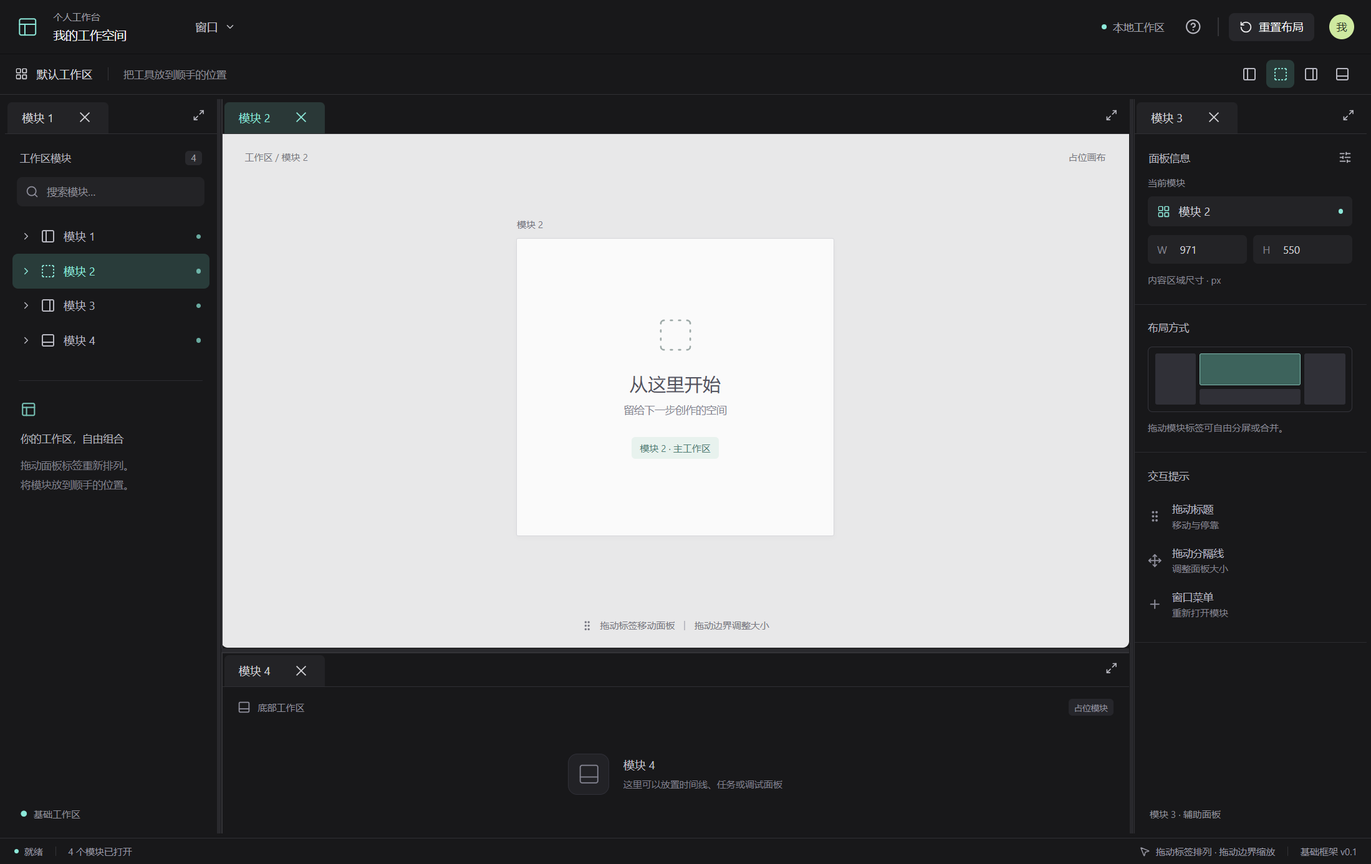
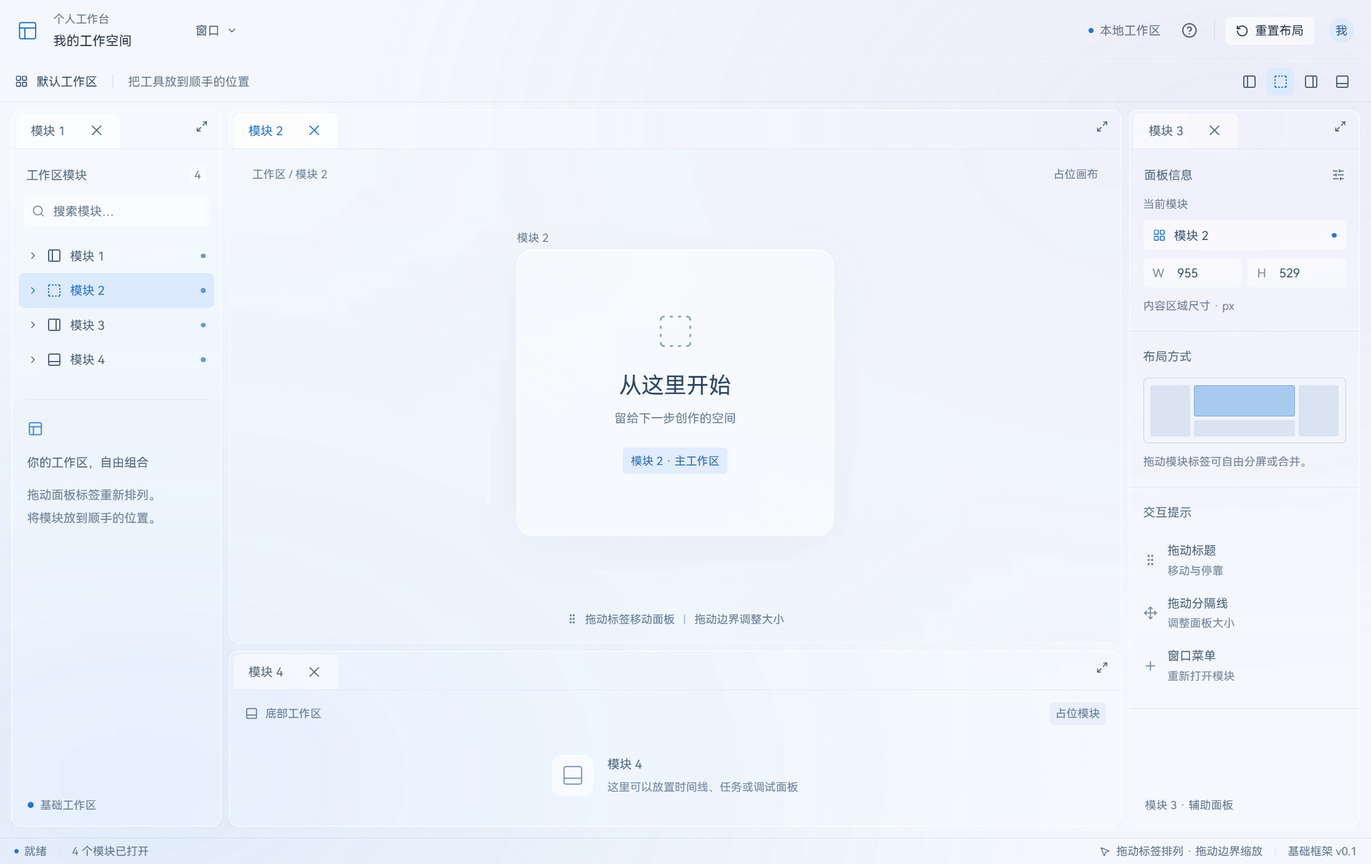
feat: 切换 Fluent 磨砂玻璃主题与原生 Acrylic 背景

diff --git a/src/renderer/src/styles.css b/src/renderer/src/styles.css
@@ -3,150 +3,168 @@
   line-height: 1.5;
   font-weight: 400;
   font-size: 14px;
-  color: #f4f4f5;
-  background: #18181a;
-  color-scheme: dark;
-  --bg: #18181a;
-  --surface: #232326;
-  --line: #343438;
-  --muted: #a1a1aa;
-  --accent: #8ce8d9;
+  color: #243247;
+  background: #eef2fa;
+  color-scheme: light;
+  --bg: #eef2fa;
+  --surface: #ffffff80;
+  --line: #c8d2e17a;
+  --muted: #69778b;
+  --accent: #2675c9;
 }
 * { box-sizing: border-box; }
 html, body, #root { margin: 0; width: 100%; height: 100%; overflow: hidden; }
 button, input { font: inherit; }
 button { display: inline-flex; align-items: center; justify-content: center; gap: 7px; color: inherit; border: 0; background: transparent; cursor: pointer; border-radius: 6px; }
-button:hover { background: #2c2c30; }
+button:hover { background: #ffffff99; }
 button:focus-visible, input:focus-visible { outline: 2px solid var(--accent); outline-offset: -2px; }
 button, kbd, .app-header, .workspace-toolbar, .statusbar { user-select: none; }
 svg { flex-shrink: 0; }
-.workbench { display: flex; flex-direction: column; height: 100%; }
-.app-header { height: 58px; flex-shrink: 0; display: flex; align-items: center; gap: 16px; padding: 0 18px; border-bottom: 1px solid #101012; }
+.workbench {
+  display: flex; flex-direction: column; height: 100%; isolation: isolate;
+  background: radial-gradient(ellipse at 10% 90%, #a9c8f442, transparent 55%), radial-gradient(ellipse at 90% 15%, #d3c8ec40, transparent 55%), #edf3fa9c;
+}
+:root[data-backdrop="acrylic"] { background: transparent; }
+:root:not([data-backdrop="acrylic"]) { background: #e4ebf7; }
+.app-header { height: 66px; flex-shrink: 0; display: flex; align-items: center; gap: 16px; padding: 0 18px; border-bottom: 1px solid #ffffff66; }
 .brand { color: var(--accent); display: flex; align-items: center; }
 .project-name { display: flex; flex-direction: column; gap: 4px; min-width: 126px; }
 .project-name > span { color: var(--muted); font-size: 12px; }
 .project-name strong { font-size: 14px; font-weight: 500; }
 .header-spacer { flex: 1; }
-.text-button { padding: 8px 10px; color: #c5c5cb; font-size: 13px; }
-.icon-button { width: 30px; height: 30px; padding: 0; color: #b9b9c2; }
-.icon-button.is-active, .text-button.is-active { background: #293c3a; color: var(--accent); }
+.text-button { padding: 8px 10px; color: #4d5e74; font-size: 13px; }
+.icon-button { width: 30px; height: 30px; padding: 0; color: #51627b; }
+.icon-button.is-active, .text-button.is-active { background: #dceafd; color: var(--accent); }
 .workspace-label { display: flex; align-items: center; gap: 7px; color: var(--muted); font-size: 13px; }
 .accent-dot { width: 5px; height: 5px; display: inline-block; flex-shrink: 0; background: var(--accent); border-radius: 50%; }
 .header-divider { width: 1px; height: 20px; background: var(--line); margin: 0 -5px; }
-.reset-button { height: 30px; padding: 0 11px; background: #27272b; font-size: 13px; }
-.avatar { display: grid; place-items: center; width: 27px; height: 27px; background: #cee9a0; color: #273123; border-radius: 50%; font-size: 13px; }
-.workspace-toolbar { display: flex; align-items: center; flex-shrink: 0; height: 43px; padding: 0 16px; gap: 16px; border-bottom: 1px solid #303034; }
-.workspace-title { display: flex; gap: 9px; align-items: center; font-size: 13px; color: #d9d9df; }
+.reset-button { height: 30px; padding: 0 11px; background: #ffffff99; font-size: 13px; }
+.avatar { display: grid; place-items: center; width: 27px; height: 27px; background: #dceafa; color: #355d93; border-radius: 50%; font-size: 13px; }
+.workspace-toolbar { display: flex; align-items: center; flex-shrink: 0; height: 43px; padding: 0 16px; gap: 16px; border-bottom: 1px solid #c4cfdf70; }
+.workspace-title { display: flex; gap: 9px; align-items: center; font-size: 13px; color: #344c68; }
 .toolbar-divider { height: 14px; width: 1px; background: var(--line); }
-.toolbar-hint { font-size: 13px; color: #8d8d97; }
+.toolbar-hint { font-size: 13px; color: #6b7c92; }
 .module-shortcuts { display: flex; gap: 3px; }
-.docking-area { flex: 1; min-height: 0; padding: 5px; }
-.statusbar { display: flex; gap: 13px; align-items: center; height: 28px; flex-shrink: 0; padding: 0 15px; color: #9898a3; font-size: 12px; border-top: 1px solid #303034; }
+.docking-area { flex: 1; min-height: 0; padding: 8px 12px 12px; }
+.statusbar { display: flex; gap: 13px; align-items: center; height: 28px; flex-shrink: 0; padding: 0 15px; color: #62758e; font-size: 12px; border-top: 1px solid #c4cfdf70; }
 .statusbar > span { display: flex; gap: 6px; align-items: center; }
 .status-separator { height: 10px; width: 1px; background: var(--line); }
 .menu-anchor { position: relative; }
-.dropdown-menu { position: absolute; top: 38px; left: 0; width: 210px; padding: 7px; background: #232326; border: 1px solid #424248; border-radius: 9px; z-index: 10000; box-shadow: 0 10px 28px #0006; }
+.dropdown-menu { position: absolute; top: 38px; left: 0; width: 210px; padding: 7px; background: #f7faffd9; backdrop-filter: blur(28px); border: 1px solid #ffffffcc; border-radius: 9px; z-index: 10000; box-shadow: 0 10px 28px #273b611f; }
 .dropdown-menu button { width: 100%; justify-content: space-between; padding: 9px 10px; font-size: 13px; }
 .dropdown-menu button svg { color: var(--accent); }
 .menu-title { color: var(--muted); font-size: 13px; padding: 5px 10px 8px; }
 .menu-divider { height: 1px; background: var(--line); margin: 6px 3px; }
 .dockview-theme-workbench {
   height: 100%;
-  --dv-group-view-background-color: #18181a;
-  --dv-tabs-and-actions-container-background-color: #18181a;
-  --dv-tabs-and-actions-container-height: 37px;
-  --dv-activegroup-visiblepanel-tab-background-color: #2a3837;
-  --dv-activegroup-hiddenpanel-tab-background-color: #18181a;
-  --dv-inactivegroup-visiblepanel-tab-background-color: #232326;
-  --dv-inactivegroup-hiddenpanel-tab-background-color: #18181a;
-  --dv-activegroup-visiblepanel-tab-color: #8ce8d9;
-  --dv-activegroup-hiddenpanel-tab-color: #a1a1aa;
-  --dv-inactivegroup-visiblepanel-tab-color: #d4d4d8;
-  --dv-inactivegroup-hiddenpanel-tab-color: #a1a1aa;
+  --dv-group-view-background-color: transparent;
+  --dv-tabs-and-actions-container-background-color: transparent;
+  --dv-tabs-and-actions-container-height: 42px;
+  --dv-activegroup-visiblepanel-tab-background-color: #ffffffd9;
+  --dv-activegroup-hiddenpanel-tab-background-color: transparent;
+  --dv-inactivegroup-visiblepanel-tab-background-color: #ffffff80;
+  --dv-inactivegroup-hiddenpanel-tab-background-color: transparent;
+  --dv-activegroup-visiblepanel-tab-color: #2675c9;
+  --dv-activegroup-hiddenpanel-tab-color: #69778b;
+  --dv-inactivegroup-visiblepanel-tab-color: #56677c;
+  --dv-inactivegroup-hiddenpanel-tab-color: #69778b;
   --dv-tab-divider-color: transparent;
-  --dv-separator-border: #343438;
-  --dv-active-sash-color: #8ce8d9;
-  --dv-sash-color: #29292d;
-  --dv-drag-over-background-color: #8ce8d922;
-  --dv-drag-over-border: 1px solid #8ce8d9;
+  --dv-separator-border: transparent;
+  --dv-active-sash-color: #2675c9;
+  --dv-sash-color: transparent;
+  --dv-drag-over-background-color: #2675c91c;
+  --dv-drag-over-border: 1px solid #2675c9;
   --dv-tab-font-size: 13px;
   --dv-tabs-and-actions-container-font-size: 13px;
-  --dv-icon-hover-background-color: #ffffff14;
+  --dv-icon-hover-background-color: #ffffff99;
 }
-.dockview-theme-workbench .dv-groupview { border-radius: 7px; overflow: hidden; }
-.dockview-theme-workbench .dv-tabs-and-actions-container { border-bottom: 1px solid #303034; padding: 3px 3px 0; }
-.dockview-theme-workbench .dv-tab { border-radius: 5px 5px 0 0; min-width: 95px; }
+.dockview-theme-workbench .dv-groupview {
+  border-radius: 10px; overflow: hidden;
+  background: #ffffff66;
+  backdrop-filter: blur(24px) saturate(125%);
+  box-shadow: inset 0 0 0 1px #ffffffb3, 0 3px 10px #3857830c;
+}
+.dockview-theme-workbench .dv-tabs-and-actions-container { border-bottom: 1px solid #d0dbea66; padding: 4px 5px 0; }
+.dockview-theme-workbench .dv-tab { border-radius: 7px 7px 0 0; min-width: 105px; }
 .dockview-theme-workbench .dv-default-tab { padding: 0 9px; gap: 15px; }
 .dockview-theme-workbench .dv-default-tab .dv-default-tab-content { padding-right: 5px; }
 .dockview-theme-workbench .header-action { width: 26px; height: 28px; margin-right: 3px; }
 .module-navigation, .inspector { height: 100%; overflow: auto; position: relative; display: flex; flex-direction: column; }
-.section-heading { display: flex; align-items: center; justify-content: space-between; padding: 18px 16px 13px; font-size: 13px; color: #b5b5be; }
-.count { font-size: 12px; color: var(--muted); background: #29292d; padding: 1px 6px; border-radius: 4px; }
-.search-field { display: flex; margin: 0 13px 14px; height: 31px; padding: 0 9px; gap: 7px; align-items: center; background: var(--surface); border-radius: 6px; color: #8f8f9c; }
-.search-field input { width: 100%; min-width: 0; border: 0; background: none; color: #dddde4; font-size: 13px; outline-offset: 3px; }
-.search-field input::placeholder { color: #91919b; }
+.section-heading { display: flex; align-items: center; justify-content: space-between; padding: 18px 16px 13px; font-size: 13px; color: #596c85; }
+.count { font-size: 12px; color: var(--muted); background: #ffffff66; padding: 1px 6px; border-radius: 4px; }
+.search-field { display: flex; margin: 0 13px 14px; height: 31px; padding: 0 9px; gap: 7px; align-items: center; background: var(--surface); border-radius: 6px; color: #7d8da3; }
+.search-field input { width: 100%; min-width: 0; border: 0; background: none; color: #263c57; font-size: 13px; outline-offset: 3px; }
+.search-field input::placeholder { color: #6a7b91; }
 .module-list { padding: 0 8px; }
-.module-row { justify-content: flex-start; width: 100%; height: 37px; gap: 9px; padding: 0 9px; color: #b9b9c2; font-size: 13px; }
-.module-row.selected { background: #293c3a; color: var(--accent); }
+.module-row { justify-content: flex-start; width: 100%; height: 37px; gap: 9px; padding: 0 9px; color: #51627b; font-size: 13px; }
+.module-row.selected { background: #dceafd; color: var(--accent); }
 .module-row > span:first-of-type { flex: 1; text-align: left; }
-.visibility-dot { width: 5px; height: 5px; border: 1px solid #686872; border-radius: 50%; }
-.visibility-dot.on { background: #8ce8d9; border-color: #8ce8d9; opacity: .7; }
-.sidebar-note { border-top: 1px solid #2b2b30; margin: 24px 15px 16px; padding: 22px 2px; color: #80808c; }
-.sidebar-note > svg { color: #8ce8d9; opacity: .8; }
-.sidebar-note strong { display: block; font-size: 13px; font-weight: 400; color: #b6b6bf; margin-top: 12px; }
+.visibility-dot { width: 5px; height: 5px; border: 1px solid #94a3b8; border-radius: 50%; }
+.visibility-dot.on { background: #2675c9; border-color: #2675c9; opacity: .7; }
+.sidebar-note { border-top: 1px solid #c3cfdf66; margin: 24px 15px 16px; padding: 22px 2px; color: #73839a; }
+.sidebar-note > svg { color: #2675c9; opacity: .8; }
+.sidebar-note strong { display: block; font-size: 13px; font-weight: 400; color: #53657e; margin-top: 12px; }
 .sidebar-note p { font-size: 13px; line-height: 1.9; }
-.panel-footnote { display: flex; gap: 7px; align-items: center; margin-top: auto; padding: 14px 17px; color: #91919b; font-size: 12px; }
+.panel-footnote { display: flex; gap: 7px; align-items: center; margin-top: auto; padding: 14px 17px; color: #6a7b91; font-size: 12px; }
 .panel-footnote svg { color: var(--accent); }
 .search-empty { font-size: 13px; text-align: center; color: var(--muted); }
-.canvas-panel { width: 100%; height: 100%; background: #e8e8e9; color: #60606a; display: flex; flex-direction: column; align-items: center; position: relative; overflow: auto; padding: 0 25px; }
-.canvas-topline { width: 100%; display: flex; justify-content: space-between; font-size: 12px; padding: 18px 0 12px; color: #777780; flex-shrink: 0; }
-.canvas-sheet { position: relative; margin: auto; width: min(340px, 84%); min-height: 200px; height: 58%; max-height: 350px; display: flex; flex-direction: column; justify-content: center; align-items: center; background: #fafafa; border: 1px solid #d7d7db; border-radius: 2px; box-shadow: 0 2px 5px #00000006; }
-.sheet-caption { position: absolute; left: 0; top: -22px; font-size: 12px; color: #70707a; }
-.canvas-sheet > svg { color: #9eaaa8; }
-.canvas-sheet h1 { font-size: 19px; font-weight: 500; letter-spacing: 0; color: #53535e; margin: 18px 0 0; }
-.canvas-sheet p { margin: 8px 0 22px; font-size: 13px; color: #83838e; }
-.canvas-badge { font-size: 12px; color: #4e7a72; padding: 5px 9px; border-radius: 4px; background: #e8f2ee; }
-.canvas-tip { font-size: 12px; margin: 20px 0 17px; display: flex; gap: 7px; align-items: center; color: #757580; flex-shrink: 0; }
-.canvas-tip > span { height: 10px; width: 1px; background: #bdbdc4; margin: 0 3px; }
-.inspector-section { padding: 0 15px 17px; border-bottom: 1px solid #2b2b30; }
-.inspector-section > label { display: block; font-size: 12px; color: #8e8e9b; margin-bottom: 8px; }
-.readonly-field { height: 32px; display: flex; align-items: center; gap: 9px; padding: 0 10px; background: #232326; border-radius: 5px; font-size: 13px; color: #cdcdd6; }
-.readonly-field > svg { color: #8ce8d9; }
+.canvas-panel { width: 100%; height: 100%; background: #eef4fa55; color: #53677e; display: flex; flex-direction: column; align-items: center; position: relative; overflow: auto; padding: 0 25px; }
+.canvas-topline { width: 100%; display: flex; justify-content: space-between; font-size: 12px; padding: 18px 0 12px; color: #6b7f99; flex-shrink: 0; }
+.canvas-sheet { position: relative; margin: auto; width: min(340px, 84%); min-height: 200px; height: 58%; max-height: 350px; display: flex; flex-direction: column; justify-content: center; align-items: center; background: #ffffff60; border: 1px solid #ffffffaa; border-radius: 18px; box-shadow: 0 10px 40px #6484b512, inset 0 1px 0 #ffffff; }
+.sheet-caption { position: absolute; left: 0; top: -22px; font-size: 12px; color: #6a7d95; }
+.canvas-sheet > svg { color: #7c9cc4; }
+.canvas-sheet h1 { font-size: 24px; font-weight: 500; letter-spacing: 0; color: #2d4665; margin: 18px 0 0; }
+.canvas-sheet p { margin: 8px 0 22px; font-size: 13px; color: #6f8199; }
+.canvas-badge { font-size: 12px; color: #306caf; padding: 5px 9px; border-radius: 4px; background: #e1ecfc; }
+.canvas-tip { font-size: 12px; margin: 20px 0 17px; display: flex; gap: 7px; align-items: center; color: #647b96; flex-shrink: 0; }
+.canvas-tip > span { height: 10px; width: 1px; background: #aebed3; margin: 0 3px; }
+.inspector-section { padding: 0 15px 17px; border-bottom: 1px solid #c3cfdf66; }
+.inspector-section > label { display: block; font-size: 12px; color: #6e7e94; margin-bottom: 8px; }
+.readonly-field { height: 32px; display: flex; align-items: center; gap: 9px; padding: 0 10px; background: #ffffff80; border-radius: 5px; font-size: 13px; color: #3c526e; }
+.readonly-field > svg { color: #2675c9; }
 .readonly-field > span:first-of-type { flex: 1; }
 .dimension-fields { display: flex; gap: 7px; margin-top: 9px; }
-.dimension-fields > div { flex: 1; display: flex; gap: 14px; align-items: center; height: 31px; border-radius: 5px; background: #232326; padding: 0 10px; font-size: 13px; }
-.dimension-fields span { color: #83838f; }
-.dimension-fields output { color: #d4d4da; font-variant-numeric: tabular-nums; }
-.field-hint { color: #888894; font-size: 12px; line-height: 1.7; margin: 9px 0 0; }
+.dimension-fields > div { flex: 1; display: flex; gap: 14px; align-items: center; height: 31px; border-radius: 5px; background: #ffffff80; padding: 0 10px; font-size: 13px; }
+.dimension-fields span { color: #7b8ba0; }
+.dimension-fields output { color: #355171; font-variant-numeric: tabular-nums; }
+.field-hint { color: #74839a; font-size: 12px; line-height: 1.7; margin: 9px 0 0; }
 .inspector-section .section-heading { padding: 17px 0 13px; }
-.layout-preview { height: 70px; display: grid; grid-template-columns: 1fr 2.5fr 1fr; grid-template-rows: 2fr 1fr; gap: 4px; padding: 7px; border: 1px solid #35353c; border-radius: 5px; }
-.layout-preview > div { background: #303037; border-radius: 2px; }
+.layout-preview { height: 70px; display: grid; grid-template-columns: 1fr 2.5fr 1fr; grid-template-rows: 2fr 1fr; gap: 4px; padding: 7px; border: 1px solid #c4d3e6; border-radius: 5px; }
+.layout-preview > div { background: #d9e3f1; border-radius: 2px; }
 .layout-preview > div:first-child { grid-row: span 2; }
-.layout-preview > div:nth-child(2) { background: #3d635c; border: 1px solid #80b9af; }
+.layout-preview > div:nth-child(2) { background: #a8caef; border: 1px solid #76a9e0; }
 .layout-preview > div:nth-child(3) { grid-row: span 2; }
-.instruction { display: flex; align-items: center; gap: 11px; color: #8f8f9c; padding: 8px 0; }
-.instruction > span { display: flex; flex-direction: column; font-size: 13px; color: #b8b8c1; gap: 3px; }
-.instruction > span > span { font-size: 12px; color: #858591; }
+.instruction { display: flex; align-items: center; gap: 11px; color: #7d8da3; padding: 8px 0; }
+.instruction > span { display: flex; flex-direction: column; font-size: 13px; color: #4f657f; gap: 3px; }
+.instruction > span > span { font-size: 12px; color: #798aa0; }
 .bottom-panel { height: 100%; overflow: auto; display: flex; flex-direction: column; }
-.bottom-panel-top { display: flex; align-items: center; justify-content: space-between; padding: 13px 17px; font-size: 12px; color: #90909e; }
+.bottom-panel-top { display: flex; align-items: center; justify-content: space-between; padding: 13px 17px; font-size: 12px; color: #637c99; }
 .bottom-panel-top > span:first-child { display: flex; align-items: center; gap: 8px; }
-.subtle-tag { background: #26262b; border-radius: 4px; padding: 3px 6px; font-size: 12px; }
+.subtle-tag { background: #e8effa; border-radius: 4px; padding: 3px 6px; font-size: 12px; }
 .bottom-empty { display: flex; align-items: center; justify-content: center; gap: 15px; flex: 1; padding: 10px 15px 24px; }
-.empty-symbol { display: grid; place-items: center; width: 44px; height: 44px; background: #222226; color: #838390; border: 1px solid #303038; border-radius: 10px; }
-.bottom-empty h2 { font-size: 13px; font-weight: 400; margin: 0 0 6px; color: #c2c2cb; }
-.bottom-empty p { margin: 0; font-size: 12px; color: #80808e; }
-.empty-workspace { height: 100%; width: 100%; display: flex; flex-direction: column; align-items: center; justify-content: center; color: #a1a1aa; }
+.empty-symbol { display: grid; place-items: center; width: 44px; height: 44px; background: #ffffff99; color: #7591b2; border: 1px solid #ffffffbb; border-radius: 10px; }
+.bottom-empty h2 { font-size: 13px; font-weight: 400; margin: 0 0 6px; color: #4f6683; }
+.bottom-empty p { margin: 0; font-size: 12px; color: #7789a2; }
+.empty-workspace { height: 100%; width: 100%; display: flex; flex-direction: column; align-items: center; justify-content: center; color: #69778b; }
 .empty-workspace h2 { font-size: 18px; font-weight: 400; }
 .empty-workspace p { font-size: 13px; }
-.primary-button { padding: 9px 15px; background: var(--accent); color: #163b33; margin-top: 12px; }
-.primary-button:hover { background: #a4f2e5; }
-.help-dialog { width: min(440px, 90vw); padding: 24px; background: #232326; color: #eeeef0; border: 1px solid #424248; border-radius: 12px; box-shadow: 0 18px 70px #0007; }
-.help-dialog::backdrop { background: #0007; }
+.primary-button { padding: 9px 15px; background: var(--accent); color: #ffffff; margin-top: 12px; }
+.primary-button:hover { background: #1e65b5; }
+.help-dialog { width: min(440px, 90vw); padding: 24px; background: #f7faffeb; backdrop-filter: blur(28px); color: #2d425d; border: 1px solid #ffffffcc; border-radius: 12px; box-shadow: 0 18px 70px #304c7829; }
+.help-dialog::backdrop { background: #304c7829; }
 .dialog-heading { display: flex; align-items: center; justify-content: space-between; }
 .dialog-heading h2 { font-size: 16px; font-weight: 500; margin: 0; }
 .help-dialog > p { color: var(--muted); font-size: 13px; margin: 17px 0 22px; }
 .help-dialog dl { display: grid; grid-template-columns: 76px 1fr; font-size: 13px; gap: 15px 10px; margin: 0; }
 .help-dialog dt { color: var(--accent); }
-.help-dialog dd { margin: 0; color: #bcbcc5; }
+.help-dialog dd { margin: 0; color: #647992; }
 @media (max-width: 1000px) { .toolbar-hint, .workspace-label, .status-hint { display: none !important; } .app-header { gap: 10px; } }
 @media (prefers-reduced-motion: reduce) { *, *::before, *::after { transition: none !important; animation: none !important; } }
+
+@media (prefers-reduced-transparency: reduce) {
+  .workbench { background: #edf2f9; }
+  .dockview-theme-workbench .dv-groupview, .dropdown-menu, .help-dialog { background: #f8fafe; backdrop-filter: none; }
+}
+@media (forced-colors: active) {
+  .workbench, .dockview-theme-workbench .dv-groupview, .dropdown-menu, .help-dialog { background: Canvas; color: CanvasText; backdrop-filter: none; border: 1px solid CanvasText; }
+}

diff --git a/src/main/index.ts b/src/main/index.ts
@@ -1,5 +1,8 @@
-import { app, BrowserWindow, Menu } from 'electron'
+import { app, BrowserWindow, Menu, nativeTheme } from 'electron'
 import { fileURLToPath } from 'node:url'
+import { release } from 'node:os'
+
+const supportsAcrylic = process.platform === 'win32' && Number(release().split('.')[2]) >= 22621
 
 function createWindow() {
   const window = new BrowserWindow({
@@ -8,7 +11,8 @@ function createWindow() {
     minWidth: 900,
     minHeight: 640,
     title: '个人工作台',
-    backgroundColor: '#18181a',
+    backgroundColor: supportsAcrylic ? '#00000000' : '#eef2fa',
+    ...(supportsAcrylic ? { backgroundMaterial: 'acrylic' as const } : {}),
     autoHideMenuBar: true,
     show: false,
     webPreferences: {
@@ -22,13 +26,18 @@ function createWindow() {
   window.webContents.on('will-navigate', (event) => event.preventDefault())
 
   if (!app.isPackaged && process.env.ELECTRON_RENDERER_URL) {
-    void window.loadURL(process.env.ELECTRON_RENDERER_URL)
+    const url = new URL(process.env.ELECTRON_RENDERER_URL)
+    if (supportsAcrylic) url.searchParams.set('nativeBackdrop', 'acrylic')
+    void window.loadURL(url.toString())
   } else {
-    void window.loadFile(fileURLToPath(new URL('../renderer/index.html', import.meta.url)))
+    void window.loadFile(fileURLToPath(new URL('../renderer/index.html', import.meta.url)), {
+      query: supportsAcrylic ? { nativeBackdrop: 'acrylic' } : {}
+    })
   }
 }
 
 void app.whenReady().then(() => {
+  nativeTheme.themeSource = 'light'
   Menu.setApplicationMenu(null)
   createWindow()
   app.on('activate', () => {

diff --git a/src/renderer/src/App.tsx b/src/renderer/src/App.tsx
@@ -3,7 +3,7 @@ import { DockviewReact, themeDark, type DockviewApi, type DockviewReadyEvent, ty
 import { PanelsTopLeft, PanelLeft, PanelRight, PanelBottom, SquareDashed, ChevronDown, ChevronRight, Check, Plus, RotateCcw, Maximize2, Minimize2, GripVertical, MousePointer2, SlidersHorizontal, HelpCircle, X, Search, LayoutGrid, Circle, Move } from 'lucide-react'
 import { createDefaultLayout, modules, openModule } from './workspace'
 
-const theme = { ...themeDark, name: 'workbench', className: 'dockview-theme-workbench', gap: 5 }
+const theme = { ...themeDark, name: 'workbench', className: 'dockview-theme-workbench', colorScheme: 'light' as const, gap: 8 }
 const icons = [PanelLeft, SquareDashed, PanelRight, PanelBottom]
 type WorkspaceState = { api?: DockviewApi; active?: string; visible: string[] }
 const WorkspaceContext = createContext<WorkspaceState>({ visible: [] })

diff --git a/src/renderer/src/main.tsx b/src/renderer/src/main.tsx
@@ -4,6 +4,10 @@ import App from './App'
 import 'dockview-react/dist/styles/dockview.css'
 import './styles.css'
 
+if (new URLSearchParams(location.search).get('nativeBackdrop') === 'acrylic') {
+  document.documentElement.dataset.backdrop = 'acrylic'
+}
+
 createRoot(document.getElementById('root')!).render(
   <React.StrictMode>
     <App />

diff --git a/README.md b/README.md
@@ -5,7 +5,7 @@
 ## 当前状态
 
 - 已明确总体方向：音乐、3D 建模、平面设计、视频制作等模块，以及优先级最高的 AI 节点图模块。
-- 技术栈已确定为 Electron + React + TypeScript + Vite；布局采用 Dockview，UI 参考 Penpot 深色工作区。
+- 技术栈已确定为 Electron + React + TypeScript + Vite；布局采用 Dockview，UI 采用微软 Fluent 浅色磨砂玻璃风格。
 - 已完成模块 1—4 的基础框架，支持拖拽分屏、标签分组、尺寸调整、关闭重开和最大化；暂不接入真实插件或 AI 服务。
 - 本地 Git 默认分支：`main`。
 
@@ -43,7 +43,7 @@
 - 标签上的关闭按钮可关闭模块；顶部「窗口」菜单或四个模块图标可重新打开。
 - 面板右上角可最大化或还原；全局「重置布局」恢复四面板排列。
 - 当前仅保存本次运行中的布局，重启恢复默认布局；跨次运行的布局保存后续再做。
-- 本次使用 Penpot 深灰工具区、浅灰画布和薄荷青强调色作为视觉参考；布局来自 Dockview 开源包，图标来自 Lucide。
+- 当前采用微软 Fluent 浅色磨砂玻璃风格；Windows 11 22H2+ 启用原生 Acrylic，其他环境使用浅色背景回退。系统关闭透明效果时原生材质可能变为实色。布局来自 Dockview 开源包，图标来自 Lucide。中文优先使用本机 HarmonyOS Sans SC，回退微软雅黑 UI，不分发字体文件。
 
 已验证：Electron 真实窗口的四面板显示、960×720 窗口适配、鼠标拖拽合并与分屏、横纵分隔线缩放、关闭重开、最大化还原及空工作区恢复。测试使用独立 profile，不修改日常工作区。
 

diff --git a/docs/技术决策.md b/docs/技术决策.md
@@ -14,7 +14,7 @@
 - **候选三**：React + TypeScript + Vite + React Flow 网页前端 + Python/FastAPI 本地服务 + 独立任务进程 + SQLite。适合大量 Python 脚本和算法直接参与执行的情况；需要管理服务启动、通信、访问权限与 Python 环境，若再加桌面外壳也要维护两套运行时。
 - **决定**：采用第一套方案；使用 electron-vite 构建桌面主进程与 React 界面，Dockview 开源基础包提供可停靠布局。渲染进程保持沙箱隔离，目前无系统能力调用，因此不设置 preload 接口。
 
-### 视觉与首期范围（已确认）
+### 初版视觉与首期范围（Penpot 视觉已被替代）
 
 - 用户选择 Penpot 的 UI 风格，采用其深色工作区的面板层级、紧凑控件与薄荷青强调色；此前 AI 生成概念图已废弃。
 - 参考官方截图与公开主题色定义，组件为本项目编写，布局复用 Dockview，图标复用 Lucide；不直接移植 Penpot 的 ClojureScript 应用代码。
@@ -56,3 +56,7 @@
 - **决定**：最终采用的方案及理由。
 - **影响**：维护、迁移、费用和使用方面的取舍。
 - **重新评估条件**：什么变化会使该决定需要调整。
+
+## 2026-11-09：微软磨砂玻璃与中文字体（已确认）
+
+用户要求替换 Penpot 深色样式。采用浅色 Fluent 风格，Windows 11 22H2+ 配置原生 Acrylic 背景，网页面板配合透明色与背景模糊；不改变 Dockview 布局和交互。字体优先本机鸿蒙黑体，提升辅助字号至至少 12px，不携带系统字体资源。

diff --git a/docs/UI参考.md b/docs/UI参考.md
@@ -1,6 +1,6 @@
 # UI 参考与实现边界
 
-用户选定 Penpot 深色工作区作为主要视觉参考，Dockview 作为面板布局库。
+当前方案：用户否定了上一版深色界面，明确改为微软磨砂玻璃质感。采用 Fluent 浅色界面与 Windows 原生 Acrylic；Dockview 仍作为布局库。下方 Penpot 记录仅保留为历史来源。
 
 ## 来源
 
@@ -22,3 +22,13 @@
 ## 字体调整
 
 中文优先使用本机已安装的 HarmonyOS Sans SC（鸿蒙黑体），回退到微软雅黑 UI。正文 13–14px，辅助文字至少 12px；不打包或分发系统字体。已通过 Chromium 字体检查确认中文标题实际使用 HarmonyOS Sans SC。
+
+## 当前磨砂玻璃方案
+
+- 浅色半透明面板、蓝色选中状态、10px 面板圆角和柔和阴影。正文保持深色，避免透明度影响中文阅读。
+- Windows 11 build 22621+ 使用 Electron backgroundMaterial: acrylic；页面透明底色让系统材质显现。旧系统及浏览器采用浅色回退。
+- 面板及弹出菜单采用 CSS backdrop-filter，减少透明度与高对比度偏好下使用实色回退。
+- 字体为 HarmonyOS Sans SC → Microsoft YaHei UI → Microsoft YaHei；实际本机标题字体已用 Chromium CDP 核查。
+- 已复验开发模式和发布构建共 8 项 Electron 交互测试。
+- [Microsoft Acrylic 指南](https://learn.microsoft.com/en-us/windows/apps/design/style/acrylic)
+- [Electron BrowserWindow](https://www.electronjs.org/docs/latest/api/browser-window)

diff --git a/AGENTS.md b/AGENTS.md
@@ -2,7 +2,7 @@
 
 ## 项目定位与当前阶段
 
-这是用户的个人工作台项目。已确认 Electron + React + TypeScript + Vite 技术栈，采用 Dockview 实现布局，视觉参考 Penpot 深色工作区。当前仅实现模块 1—4 的基础框架；插件、AI 执行、数据库与媒体功能后续再做。
+这是用户的个人工作台项目。已确认 Electron + React + TypeScript + Vite 技术栈，采用 Dockview 实现布局，视觉采用微软 Fluent 浅色磨砂玻璃风格，中文优先使用本机 HarmonyOS Sans SC。当前仅实现模块 1—4 的基础框架；插件、AI 执行、数据库与媒体功能后续再做。
 
 - 优先阅读 `README.md` 和 `docs/需求与规划.md`，再查看相关代码及更深层的 `AGENTS.md`。
 - 不将讨论中的候选方案视为已确认需求；将已确认事项、候选方案和待确认问题分开记录。

diff --git a/docs/需求与规划.md b/docs/需求与规划.md
@@ -49,7 +49,7 @@
 ## 首个版本
 
 - 目标：先验证整体 UI 风格和多面板操作体验。
-- 范围：Penpot 风格的桌面框架，Dockview 承载模块 1、2、3、4，支持拖拽、分组和尺寸调整。
+- 范围：微软 Fluent 磨砂玻璃风格的桌面框架，Dockview 承载模块 1、2、3、4，支持拖拽、分组和尺寸调整。
 - 暂不包含：插件系统、AI 节点执行、媒体编辑、数据库与第三方软件接入。
 - 验收方式：打开真实 Electron 窗口，拖动模块、调整分隔线，检查面板布局及视觉效果。
 
